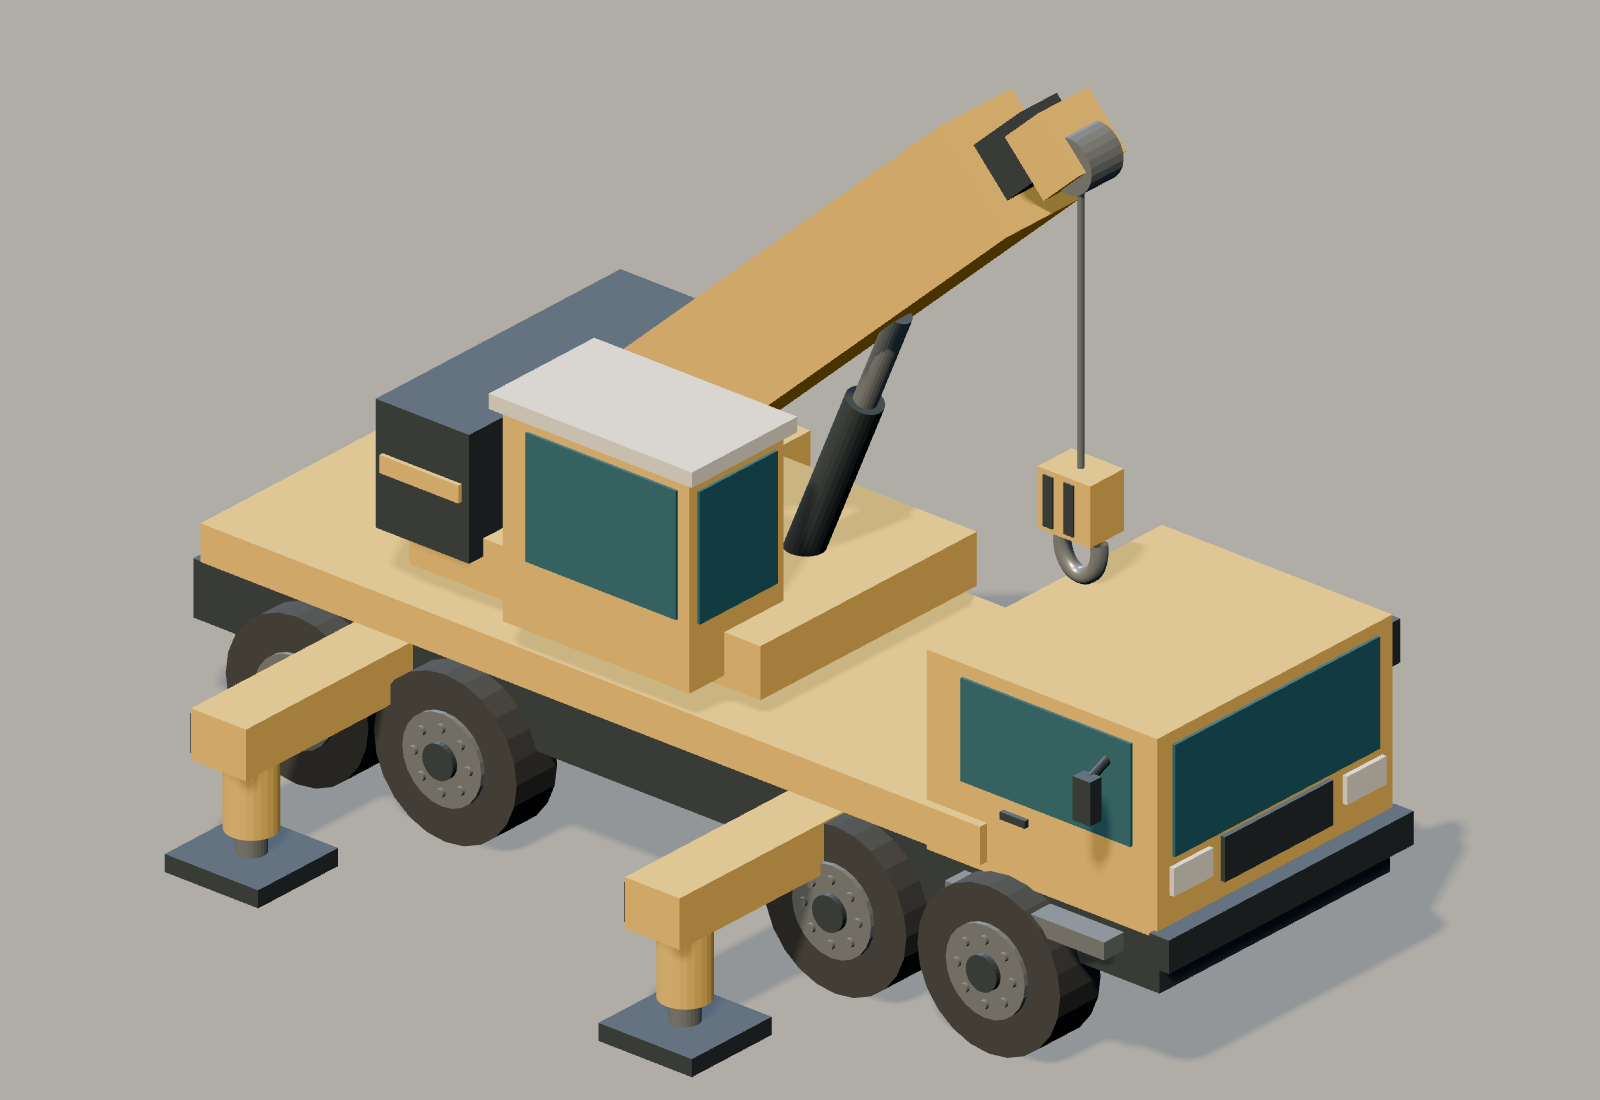
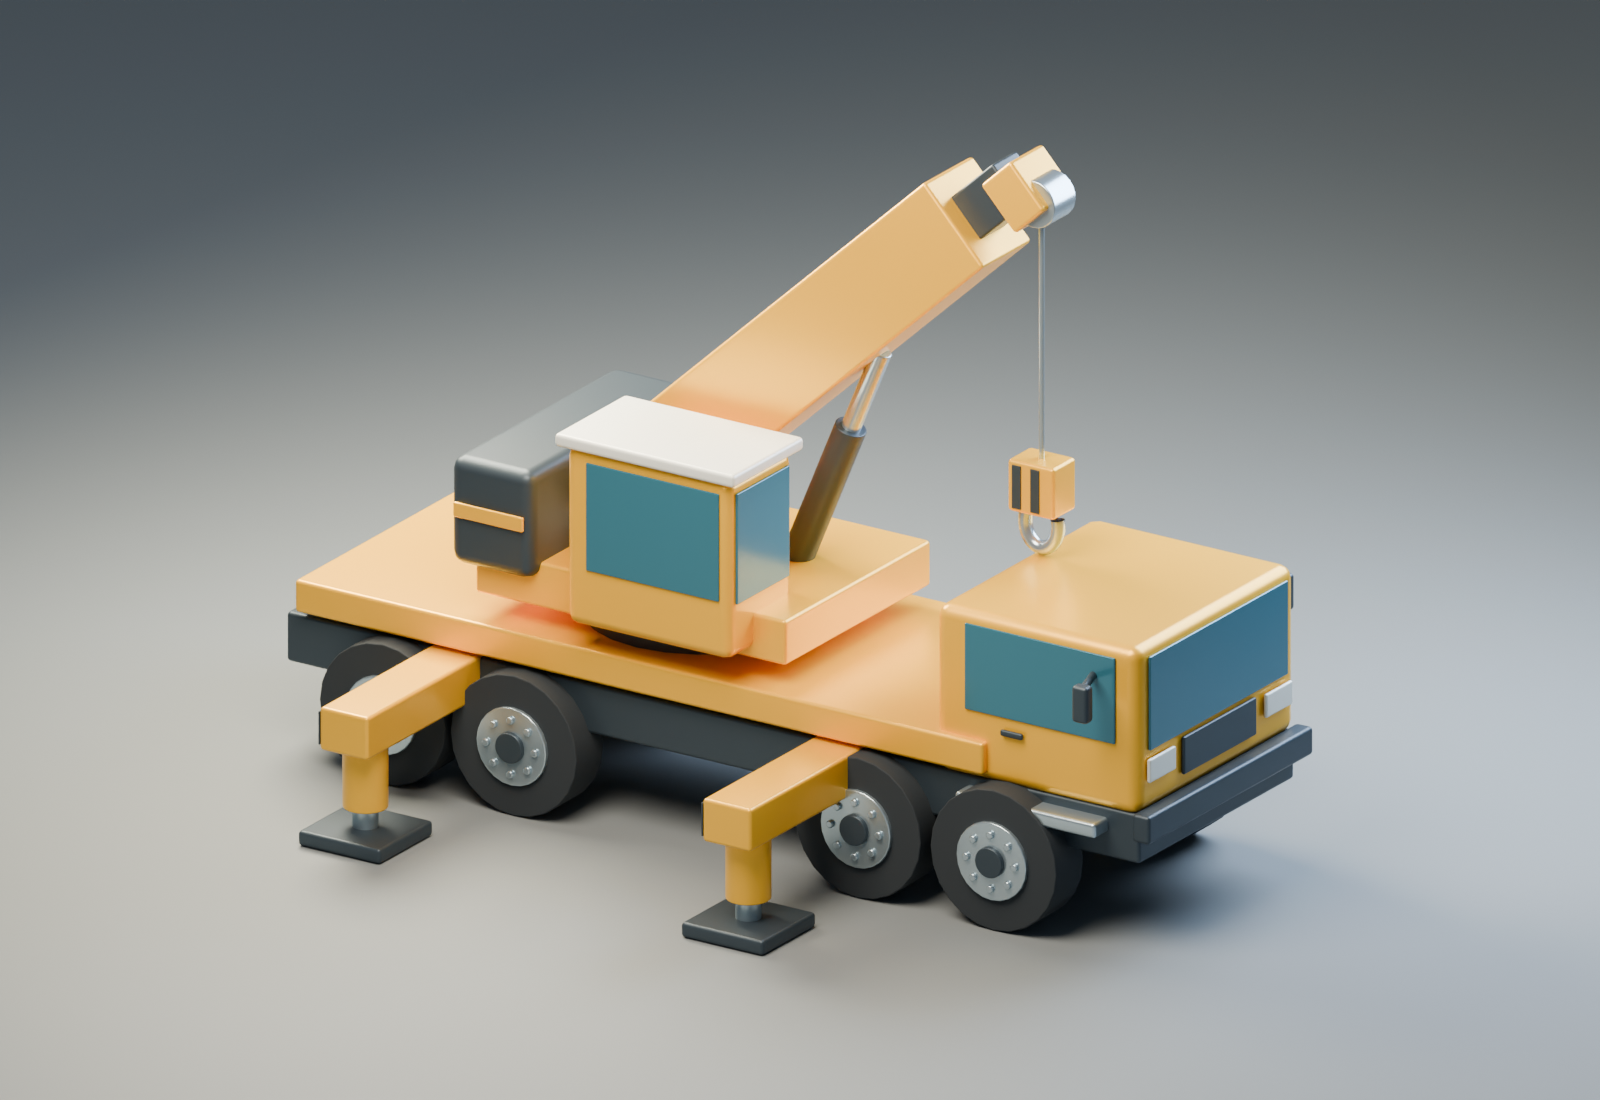
fix ui and task logic

diff --git a/src/ui.ts b/src/ui.ts
@@ -144,9 +144,9 @@ export function markup() {
 <aside class="sidebar">
 <h1 id="side-title" hidden></h1>
 <div id="garage-panel">
-<button class="machine-card selected" id="choose-excavator"><span class="card-top"><span class="tag">挖掘 · 搬运</span><span class="selected-dot">${icon("check", 13)}</span></span><div class="machine-thumbnail"></div><strong>履带式挖掘机</strong><span class="card-bottom">EX 200 <span>已选择 ${icon("check", 13)}</span></span></button>
-<button class="machine-card crane-machine-card" id="choose-crane"><span class="card-top"><span class="tag">起升 · 回转</span><span class="selected-dot">${icon("check", 13)}</span></span><div class="machine-thumbnail crane-thumbnail"></div><strong>汽车起重机</strong><span class="card-bottom">TC 80 <span>点击选择</span></span></button>
-<button class="machine-card tower-machine-card" id="choose-tower"><span class="card-top"><span class="tag">吊运 · 建楼</span><span class="selected-dot">${icon("check", 13)}</span></span><div class="machine-thumbnail tower-thumbnail"></div><strong>塔吊</strong><span class="card-bottom">TC 24 <span>点击选择</span></span></button>
+<button class="machine-card selected" id="choose-excavator" aria-pressed="true"><span class="card-top"><span class="tag">挖掘 · 搬运</span><span class="selected-dot">${icon("check", 13)}</span></span><div class="machine-thumbnail"></div><span class="machine-title"><strong>履带式挖掘机</strong><span>EX 200</span></span></button>
+<button class="machine-card crane-machine-card" id="choose-crane" aria-pressed="false"><span class="card-top"><span class="tag">起升 · 回转</span><span class="selected-dot">${icon("check", 13)}</span></span><div class="machine-thumbnail crane-thumbnail"></div><span class="machine-title"><strong>汽车起重机</strong><span>TC 80</span></span></button>
+<button class="machine-card tower-machine-card" id="choose-tower" aria-pressed="false"><span class="card-top"><span class="tag">吊运 · 建楼</span><span class="selected-dot">${icon("check", 13)}</span></span><div class="machine-thumbnail tower-thumbnail"></div><span class="machine-title"><strong>塔吊</strong><span>TC 24</span></span></button>
 </div>
 <div id="mission-panel" hidden>
 <button class="back-button" id="return-showroom">${icon("arrow", 16)} 返回机械展厅</button>

diff --git a/src/style.css b/src/style.css
@@ -167,7 +167,7 @@ a {
 .sidebar {
   min-height: 0;
   overflow-y: auto;
-  padding: 32px 23px 18px 28px;
+  padding: 20px;
   border-right: 1px solid var(--line);
   display: flex;
   flex-direction: column;
@@ -193,6 +193,10 @@ a {
 .sidebar > p {
   margin: 0 0 24px;
   font-size: 11px;
+}
+#garage-panel {
+  display: grid;
+  gap: 10px;
 }
 .machine-card {
   width: 100%;
@@ -245,12 +249,6 @@ a {
     cover;
   border-radius: 6px;
   mix-blend-mode: multiply;
-}
-.crane-machine-card {
-  margin-top: 12px;
-}
-.tower-machine-card {
-  margin-top: 12px;
 }
 .tower-thumbnail {
   background-image: url("../assets/tower-construction/tower-crane/tower-crane-preview.png");
@@ -360,24 +358,22 @@ body[data-machine="tower"] .drive-section {
   background-repeat: no-repeat;
   background-color: #aaa9a3;
 }
-.machine-card strong {
-  font-size: 15px;
-  display: block;
-}
-.card-bottom {
+.machine-title {
   display: flex;
+  align-items: baseline;
   justify-content: space-between;
+  gap: 10px;
+}
+.machine-title strong {
+  font-size: 15px;
+  min-width: 0;
+}
+.machine-title > span {
+  flex: 0 0 auto;
+  text-align: right;
   font-size: 10px;
   color: #8b927c;
-  margin-top: 8px;
   letter-spacing: 1px;
-}
-.card-bottom span {
-  display: flex;
-  gap: 4px;
-  color: #607653;
-  font-size: 9px;
-  letter-spacing: 0;
 }
 .upcoming {
   display: flex;
@@ -1252,7 +1248,7 @@ body[data-mode="site"] .camera-hint {
     grid-template-columns: 285px minmax(0, 1fr) 280px;
   }
   .sidebar {
-    padding: 38px 28px;
+    padding: 24px;
   }
   .controls-panel {
     padding: 35px 27px;
@@ -1275,7 +1271,7 @@ body[data-mode="site"] .camera-hint {
     grid-template-columns: 210px minmax(0, 1fr) 218px;
   }
   .sidebar {
-    padding: 27px 16px;
+    padding: 16px;
   }
   .controls-panel {
     padding: 27px 15px;

diff --git a/src/tower-site.ts b/src/tower-site.ts
@@ -412,13 +412,24 @@ export class TowerMission {
   private validPad(type: number) {
     if (!this.held || this.received[type] || this.held.type !== type)
       return false;
-    const p = this.padPosition(type),
-      b = this.cargoBox(this.held);
-    const c = b.getCenter(new THREE.Vector3());
-    // Full bundle fits within the available pad; the rebar pad includes a small edge tolerance.
+    let surface: THREE.Object3D | undefined;
+    this.pads[type].traverse((o) => {
+      if (!surface && o.name.includes("PadSurface")) surface = o;
+    });
+    if (!surface) return false;
+    const b = this.cargoBox(this.held),
+      target = new THREE.Box3().setFromObject(surface),
+      c = b.getCenter(new THREE.Vector3());
+    // The visible coloured pad is the drop target. Requiring the bundle's
+    // centre to be inside it keeps neighbouring material types distinct while
+    // allowing a practical amount of overhang for the long rebar bundle.
+    const centerOnPad =
+      c.x >= target.min.x &&
+      c.x <= target.max.x &&
+      c.z >= target.min.z &&
+      c.z <= target.max.z;
     return (
-      Math.abs(c.x - p.x) < 0.25 &&
-      Math.abs(c.z - p.z) < 0.3 &&
+      centerOnPad &&
       Math.abs(b.min.y - this.roofY) < 0.13
     );
   }

diff --git a/src/main.ts b/src/main.ts
@@ -328,15 +328,15 @@ function updateModeUI() {
   );
   $("#choose-crane").classList.toggle("selected", selectedMachine === "crane");
   $("#choose-tower").classList.toggle("selected", tower);
-  $("#choose-tower .card-bottom span").innerHTML = tower
-    ? `已选择 ${icon("check", 13)}`
-    : "点击选择";
-  $("#choose-excavator .card-bottom span").innerHTML =
-    selectedMachine === "excavator"
-      ? `已选择 ${icon("check", 13)}`
-      : "点击选择";
-  $("#choose-crane .card-bottom span").innerHTML =
-    selectedMachine === "crane" ? `已选择 ${icon("check", 13)}` : "点击选择";
+  $("#choose-excavator").setAttribute(
+    "aria-pressed",
+    String(selectedMachine === "excavator"),
+  );
+  $("#choose-crane").setAttribute(
+    "aria-pressed",
+    String(selectedMachine === "crane"),
+  );
+  $("#choose-tower").setAttribute("aria-pressed", String(tower));
   $("#start").innerHTML =
     `确认${tower ? "塔吊" : crane ? "起重机" : "挖掘机"} · 选择场景 ${icon("arrow", 18)}`;
   $("#garage-panel").hidden = mode === "site";

diff --git a/scripts/render_machine_thumbnails.py b/scripts/render_machine_thumbnails.py
@@ -1,0 +1,124 @@
+"""Render crane cards in the excavator's studio without changing source assets.
+
+Run with Blender --background --python scripts/render_machine_thumbnails.py.
+The original bevel modifiers are retained; only presentation copies are styled.
+"""
+import math
+from pathlib import Path
+
+import bpy
+from mathutils import Vector
+
+BASE = Path(__file__).resolve().parents[1] / 'assets'
+
+
+def enum(owner, prop, value):
+    allowed = [i.identifier for i in owner.bl_rna.properties[prop].enum_items]
+    if value not in allowed:
+        raise ValueError((prop, value, allowed))
+    return value
+
+
+def load_scene(path, root_prefix=None):
+    with bpy.data.libraries.load(str(path), link=False) as (source, dest):
+        dest.scenes = list(source.scenes)
+    if root_prefix:
+        return next(s for s in dest.scenes if any(o.name.startswith(root_prefix) for o in s.objects))
+    return next(s for s in dest.scenes if s.name.startswith('Excavator_Studio'))
+
+
+def bounds(objects):
+    bpy.context.view_layer.update()
+    return [o.matrix_world @ Vector(v) for o in objects
+            if o.type == 'MESH' for v in o.bound_box]
+
+
+def render_thumbnail(kind):
+    studio = load_scene(BASE / 'excavator/excavator.blend')
+    scene = bpy.data.scenes.new(kind + '_MatchedStudio')
+    bpy.context.window.scene = scene
+    for obj in studio.camera.users_collection[0].objects:
+        scene.collection.objects.link(obj)
+    scene.world = studio.world
+    camera = studio.camera
+    if kind == 'tower-crane':
+        camera.rotation_euler = Vector((-50, 69, -24.5)).to_track_quat('-Z', 'Y').to_euler()
+    scene.camera = camera
+    scene.view_settings.view_transform = studio.view_settings.view_transform
+    scene.view_settings.look = studio.view_settings.look
+    path = (BASE / 'truck-crane/crane-and-ship.blend' if kind == 'truck-crane'
+            else BASE / 'tower-construction/tower-crane/tower-crane.blend')
+    source = load_scene(path, 'TruckCrane' if kind == 'truck-crane' else 'TowerCrane')
+    root = next(o for o in source.objects if o.parent is None and o.type == 'EMPTY'
+                and (o.name.startswith('TruckCrane') if kind == 'truck-crane' else True))
+    objects = [root] + list(root.children_recursive)
+    for obj in objects:
+        scene.collection.objects.link(obj)
+        obj.hide_render = False
+    if kind == 'truck-crane':
+        for obj in objects:
+            if obj.name.startswith('J_Telescope_'):
+                obj.location.x = 0.6
+            elif obj.name.startswith('J_Hook'):
+                obj.location.z = -2.4
+            elif obj.name.startswith('WireRope'):
+                obj.location.z = -1.2
+                obj.dimensions.z = 2.4
+    else:
+        root.rotation_euler.z = math.radians(-18)
+    root.location = (0, 0, 0)
+    points = bounds(objects)
+    size = max(max(v[i] for v in points) - min(v[i] for v in points) for i in range(3))
+    root.scale *= (7.6 if kind == 'truck-crane' else 5.8) / size
+    points = bounds(objects)
+    root.location -= Vector(((max(v.x for v in points) + min(v.x for v in points))/2,
+                             (max(v.y for v in points) + min(v.y for v in points))/2,
+                             min(v.z for v in points)))
+    # Match the reference paint response, with reflections from its large softboxes.
+    for material in {m for o in objects if o.type == 'MESH' for m in o.data.materials if m}:
+        if not material.use_nodes:
+            continue
+        shader = next((n for n in material.node_tree.nodes if n.type == 'BSDF_PRINCIPLED'), None)
+        if shader is None:
+            continue
+        color = shader.inputs['Base Color'].default_value
+        if color[0] > 0.4 and color[0] > color[1] * 1.3 and color[2] < 0.15:
+            shader.inputs['Base Color'].default_value = (0.95, 0.49, 0.018, 1)
+            shader.inputs['Metallic'].default_value = 0.32
+            shader.inputs['Roughness'].default_value = 0.32
+        if 'glass' in material.name.lower():
+            shader.inputs['Roughness'].default_value = 0.14
+            shader.inputs['Metallic'].default_value = 0.25
+    for obj in objects:
+        if obj.type == 'MESH':
+            for modifier in obj.modifiers:
+                if modifier.type == 'BEVEL':
+                    modifier.segments = 3
+    # Fit projected bounds, leaving at least 13% vertical and horizontal margins.
+    points = bounds(objects)
+    rotation = camera.rotation_euler.to_quaternion()
+    inverse = rotation.inverted()
+    projected = [inverse @ p for p in points]
+    lo = Vector(tuple(min(p[i] for p in projected) for i in range(3)))
+    hi = Vector(tuple(max(p[i] for p in projected) for i in range(3)))
+    center = rotation @ ((lo + hi) / 2)
+    camera.location = center + rotation @ Vector((0, 0, 20))
+    camera.data.ortho_scale = max((hi.x-lo.x)/0.76, (hi.y-lo.y)/(1100/1600*0.74))
+    scene.render.engine = 'CYCLES'
+    scene.cycles.samples = 64
+    scene.cycles.use_denoising = True
+    scene.render.resolution_x = 1600
+    scene.render.resolution_y = 1100
+    scene.render.resolution_percentage = 100
+    scene.render.image_settings.file_format = enum(scene.render.image_settings, 'file_format', 'PNG')
+    scene.render.film_transparent = False
+    output = path.parent / (kind + '-preview.png')
+    scene.render.filepath = str(output)
+    bpy.context.view_layer.update()
+    print('THUMBNAIL', kind, 'orthographic width', camera.data.ortho_scale, flush=True)
+    bpy.ops.render.render(write_still=True)
+
+
+if __name__ == '__main__':
+    for kind in ('truck-crane', 'tower-crane'):
+        render_thumbnail(kind)

diff --git a/scripts/render_truck_crane_preview.py b/scripts/render_truck_crane_preview.py
@@ -1,70 +1,6 @@
-"""Render the truck crane alone from the combined editable Blender source."""
-import bpy
-from mathutils import Vector
+"""Render the truck crane using the shared excavator studio preset."""
+import runpy
+from pathlib import Path
 
-scene = bpy.context.scene
-crane = bpy.data.objects["TruckCrane"]
-ship = bpy.data.objects.get("CargoShip")
-if ship:
-    for obj in [ship] + list(ship.children_recursive):
-        obj.hide_render = True
-crane.location = (0, 0, 0)
-
-# Present the crane in its compact transport pose so the chassis can fill the
-# thumbnail without cropping the boom. Telescope joints are nested, so every
-# stage must be moved back to its minimum local offset.
-for name in ("J_Telescope_1", "J_Telescope_2", "J_Telescope_3"):
-    bpy.data.objects[name].location.x = 0.6
-
-# Keep the hook readable in the compact composition.
-hook = bpy.data.objects["J_Hook"]
-hook.location.z = -2.4
-rope = bpy.data.objects["WireRope"]
-rope.location.z = -1.2
-rope.dimensions.z = 2.4
-
-# Match the excavator thumbnail's blue-grey environment, warm grey floor and
-# warm-key/cool-fill studio lighting.
-ground = bpy.data.objects["StudioGround"]
-ground.hide_render = False
-ground_material = ground.data.materials[0]
-ground_material.diffuse_color = (0.19, 0.215, 0.23, 1)
-ground_material.roughness = 0.68
-
-scene.world.use_nodes = True
-background = scene.world.node_tree.nodes["Background"]
-background.inputs[0].default_value = (0.32, 0.40, 0.49, 1)
-background.inputs[1].default_value = 0.45
-
-lighting = {
-    "Key": ((1, -6, 10), 2300, (1.0, 0.86, 0.69), 7),
-    "Fill": ((4, 5, 6), 1800, (0.65, 0.79, 1.0), 6),
-    "Rim": ((-5, 1, 7), 2600, (1.0, 0.88, 0.65), 5),
-}
-for name, (position, power, color, size) in lighting.items():
-    light = bpy.data.objects[name]
-    light.hide_render = False
-    light.location = position
-    light.data.energy = power
-    light.data.color = color
-    light.data.size = size
-    light.rotation_euler = (Vector((0.7, 0, 2.2)) - light.location).to_track_quat("-Z", "Y").to_euler()
-
-camera = bpy.data.objects["PresentationCamera"]
-camera.location = (11, -14, 9)
-camera.rotation_euler = (Vector((0.5, 0, 2.25)) - camera.location).to_track_quat("-Z", "Y").to_euler()
-camera.data.type = "ORTHO"
-camera.data.ortho_scale = 11.8
-scene.camera = camera
-scene.render.engine = "CYCLES"
-scene.cycles.samples = 48
-scene.cycles.use_denoising = True
-scene.render.resolution_x = 1600
-scene.render.resolution_y = 1100
-scene.render.resolution_percentage = 100
-scene.render.image_settings.file_format = "PNG"
-scene.render.film_transparent = False
-scene.view_settings.view_transform = "AgX"
-scene.render.filepath = "D:/repos/mechanical-equipment-game/assets/truck-crane/truck-crane-preview.png"
-bpy.context.view_layer.update()
-bpy.ops.render.render(write_still=True)
+namespace = runpy.run_path(str(Path(__file__).with_name('render_machine_thumbnails.py')))
+namespace['render_thumbnail']('truck-crane')

diff --git a/scripts/render_tower_previews.py b/scripts/render_tower_previews.py
@@ -91,19 +91,9 @@ def add_ground(scene, size, color):
 
 
 def render_thumbnail():
-    scene = bpy.data.scenes.new("TowerCrane_Thumbnail")
-    bpy.context.window.scene = scene
-    crane = copy_asset(scene, "tower-crane")
-    crane.rotation_euler.z = math.radians(-18)
-    add_ground(scene, 160, (0.18, 0.205, 0.22))
-    set_world(scene, (0.32, 0.40, 0.49), 0.42)
-    add_sun(scene, (math.radians(28), math.radians(-34), math.radians(-32)), 2.0, (1.0, 0.83, 0.64))
-    add_area(scene, "Key", (26, -34, 49), (4, 0, 17), 2100, (1.0, 0.86, 0.69), 18)
-    add_area(scene, "Fill", (-28, -10, 31), (2, 0, 16), 1500, (0.64, 0.78, 1.0), 15)
-    add_area(scene, "Rim", (-4, 28, 42), (0, 0, 19), 1900, (1.0, 0.88, 0.66), 12)
-    add_camera(scene, "ThumbnailCamera", (50, -69, 42), (4, 0, 17.5), ortho=52)
-    configure(scene, 1600, 1100, TOWER / "tower-crane" / "tower-crane-preview.png")
-    bpy.ops.render.render(write_still=True)
+    import runpy
+    namespace = runpy.run_path(str(Path(__file__).with_name('render_machine_thumbnails.py')))
+    namespace['render_thumbnail']('tower-crane')
 
 
 def render_scene_preview():

diff --git a/assets/scenes/tower-construction-preview.prompt.md b/assets/scenes/tower-construction-preview.prompt.md
@@ -1,0 +1,10 @@
+# Tower construction scene preview
+
+The production PNG was restyled with the built-in image_gen tool. The excavator
+scene (`city-construction-preview.png`) is the style reference; the original
+Blender tower construction preview is the content reference. The Blender script
+reconstructs the base composition, not this final art treatment.
+
+## Final prompt
+
+Use case: style-transfer. Create a replacement landscape 16:9 construction game scene preview. Image 1 is the STYLE reference (excavator city scene). Image 2 is the CONTENT target (tower crane construction site). Restyle image 2 to match image 1 very closely: premium charming miniature 3D diorama, warm golden sunlight from upper left, bright cream pastel buildings with blue glazed windows, lush round clustered green tree canopies, pale golden sandy construction ground with subtle realistic texture, beveled edges, physically rendered materials, soft ambient occlusion and shadows, subtle tilt-shift depth of field on distant city and foreground foliage. Retain the tower-crane scene identity: one coherent yellow lattice tower crane with full mast and horizontal jib, cable and hanging hook; an unfinished two-story concrete building with red safety railings to its right; three organized supplies groups in foreground (steel rebar bundles, orange brick pallets, white gypsum panel stacks); surrounding residential blocks and perimeter roads and site fencing. Recompose for readability: crane and unfinished building are protagonists, apartment blocks sit behind and do not obscure crane. Entire crane including top, jib ends and base comfortably within the image with 8 percent safe margin. Frame as a close elevated three-quarter view like reference 1, lively detailed miniature city continuing beyond image edges, no floating platform, no plain studio background. Keep the scene inviting, sunlit and airy like reference 1, not dark or flat like image 2. No excavator, no text, no logos, no watermark. Output a single polished image.
